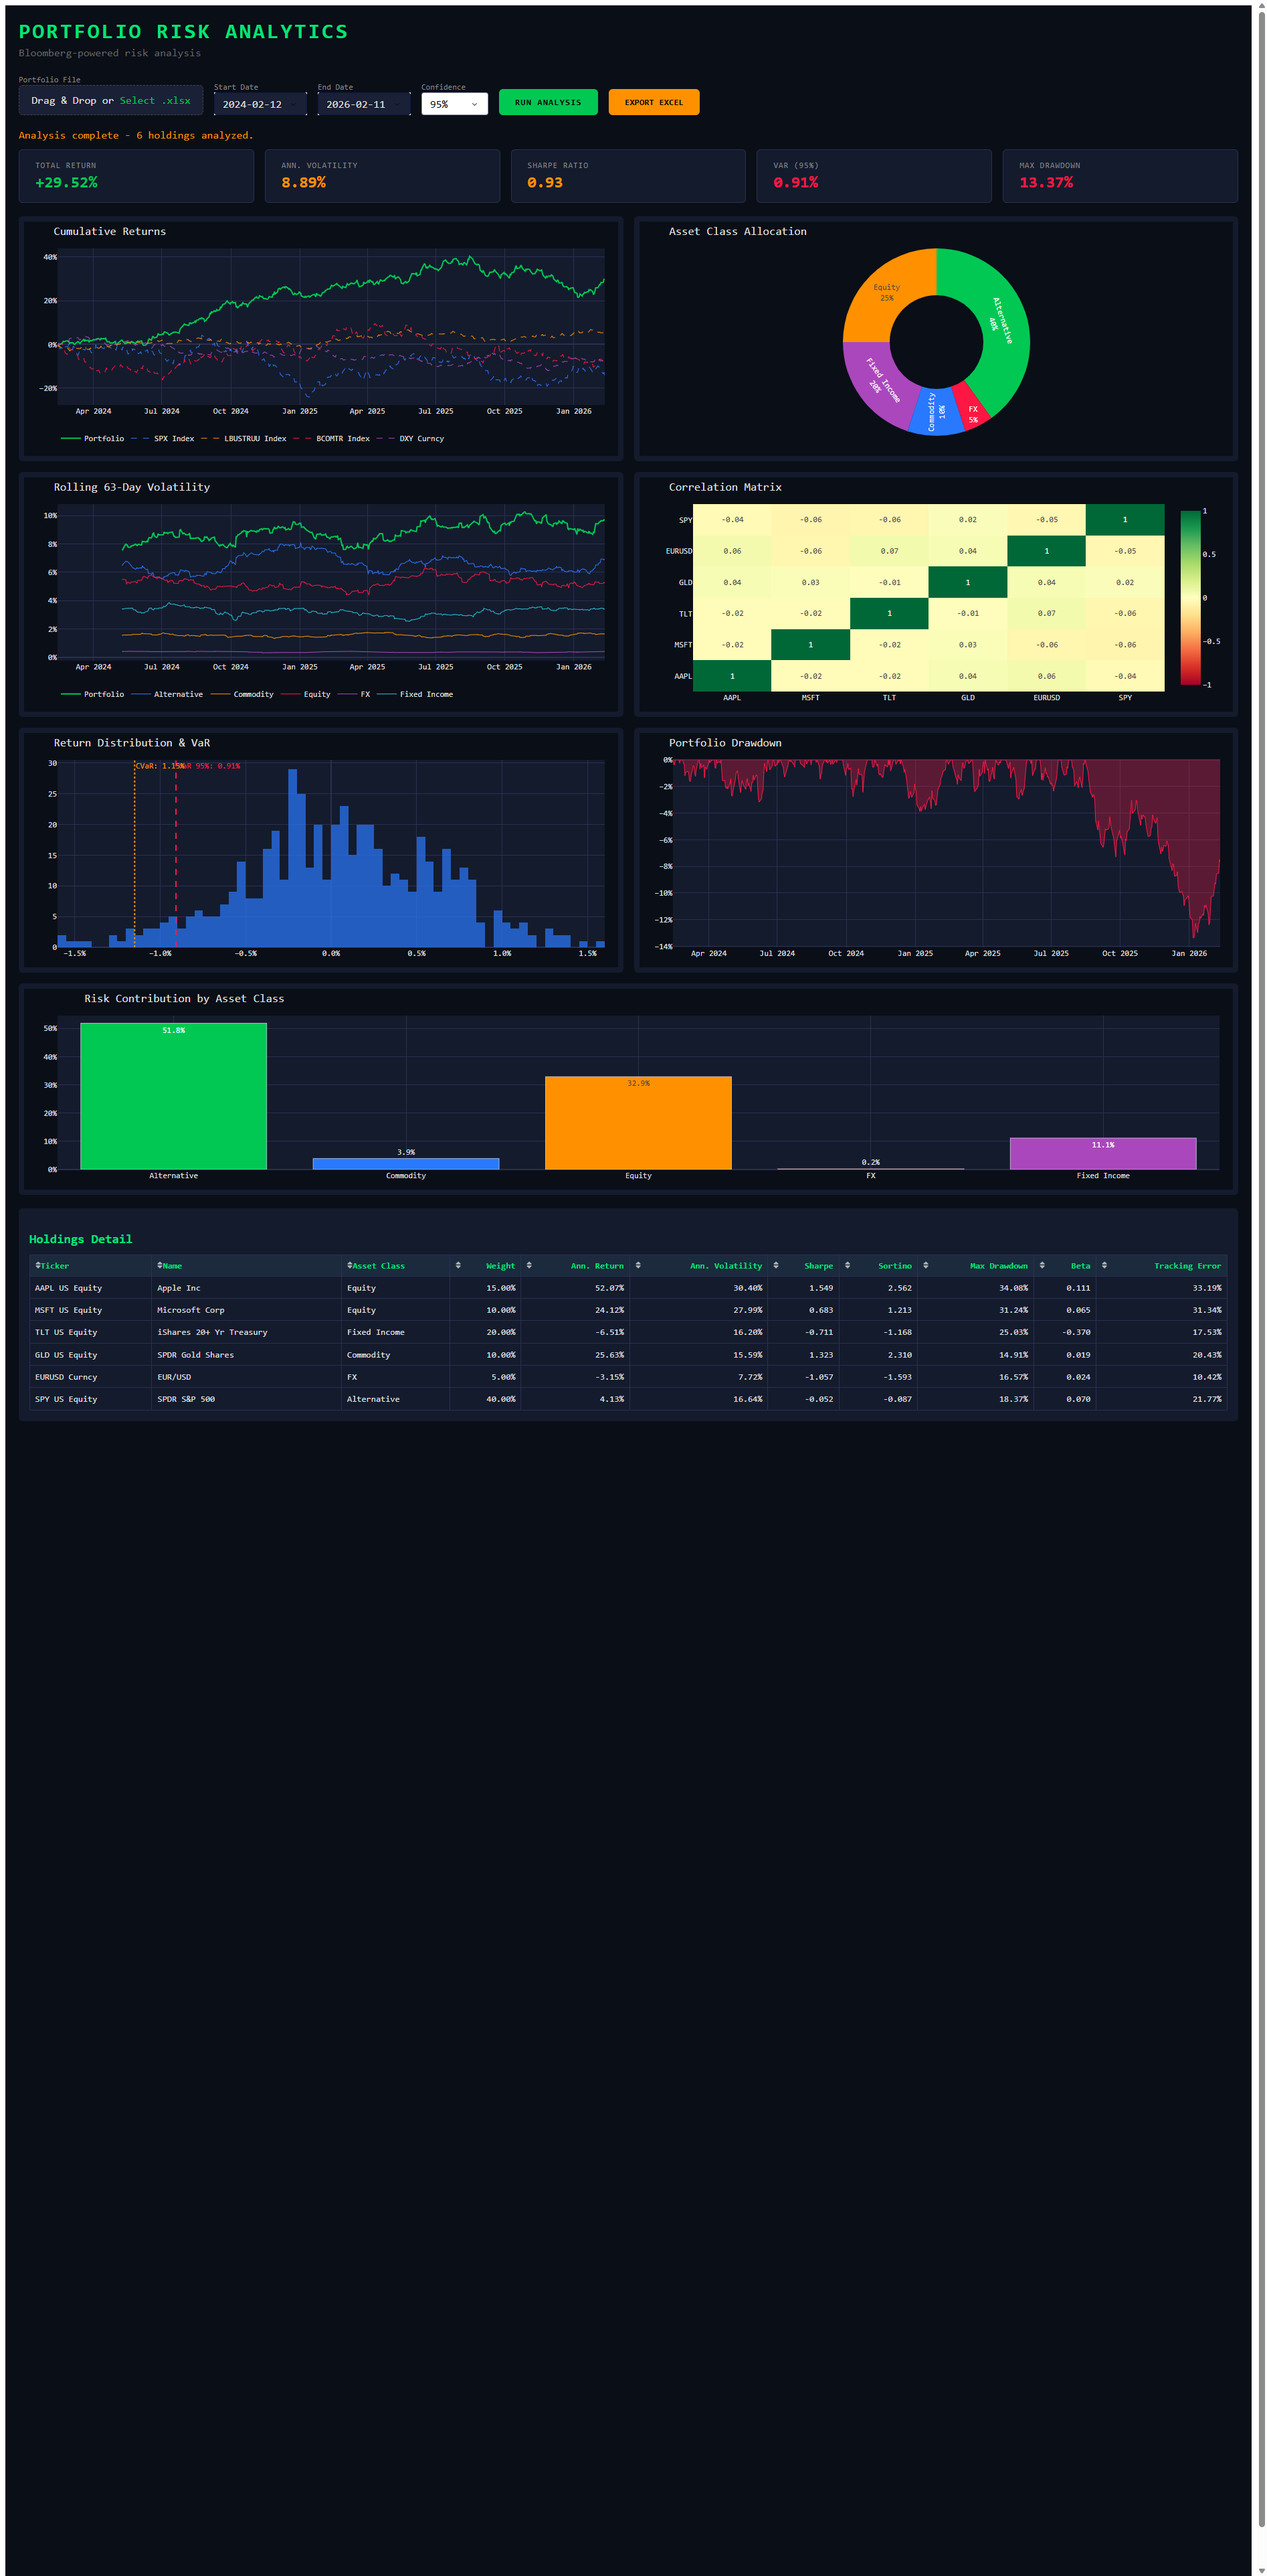
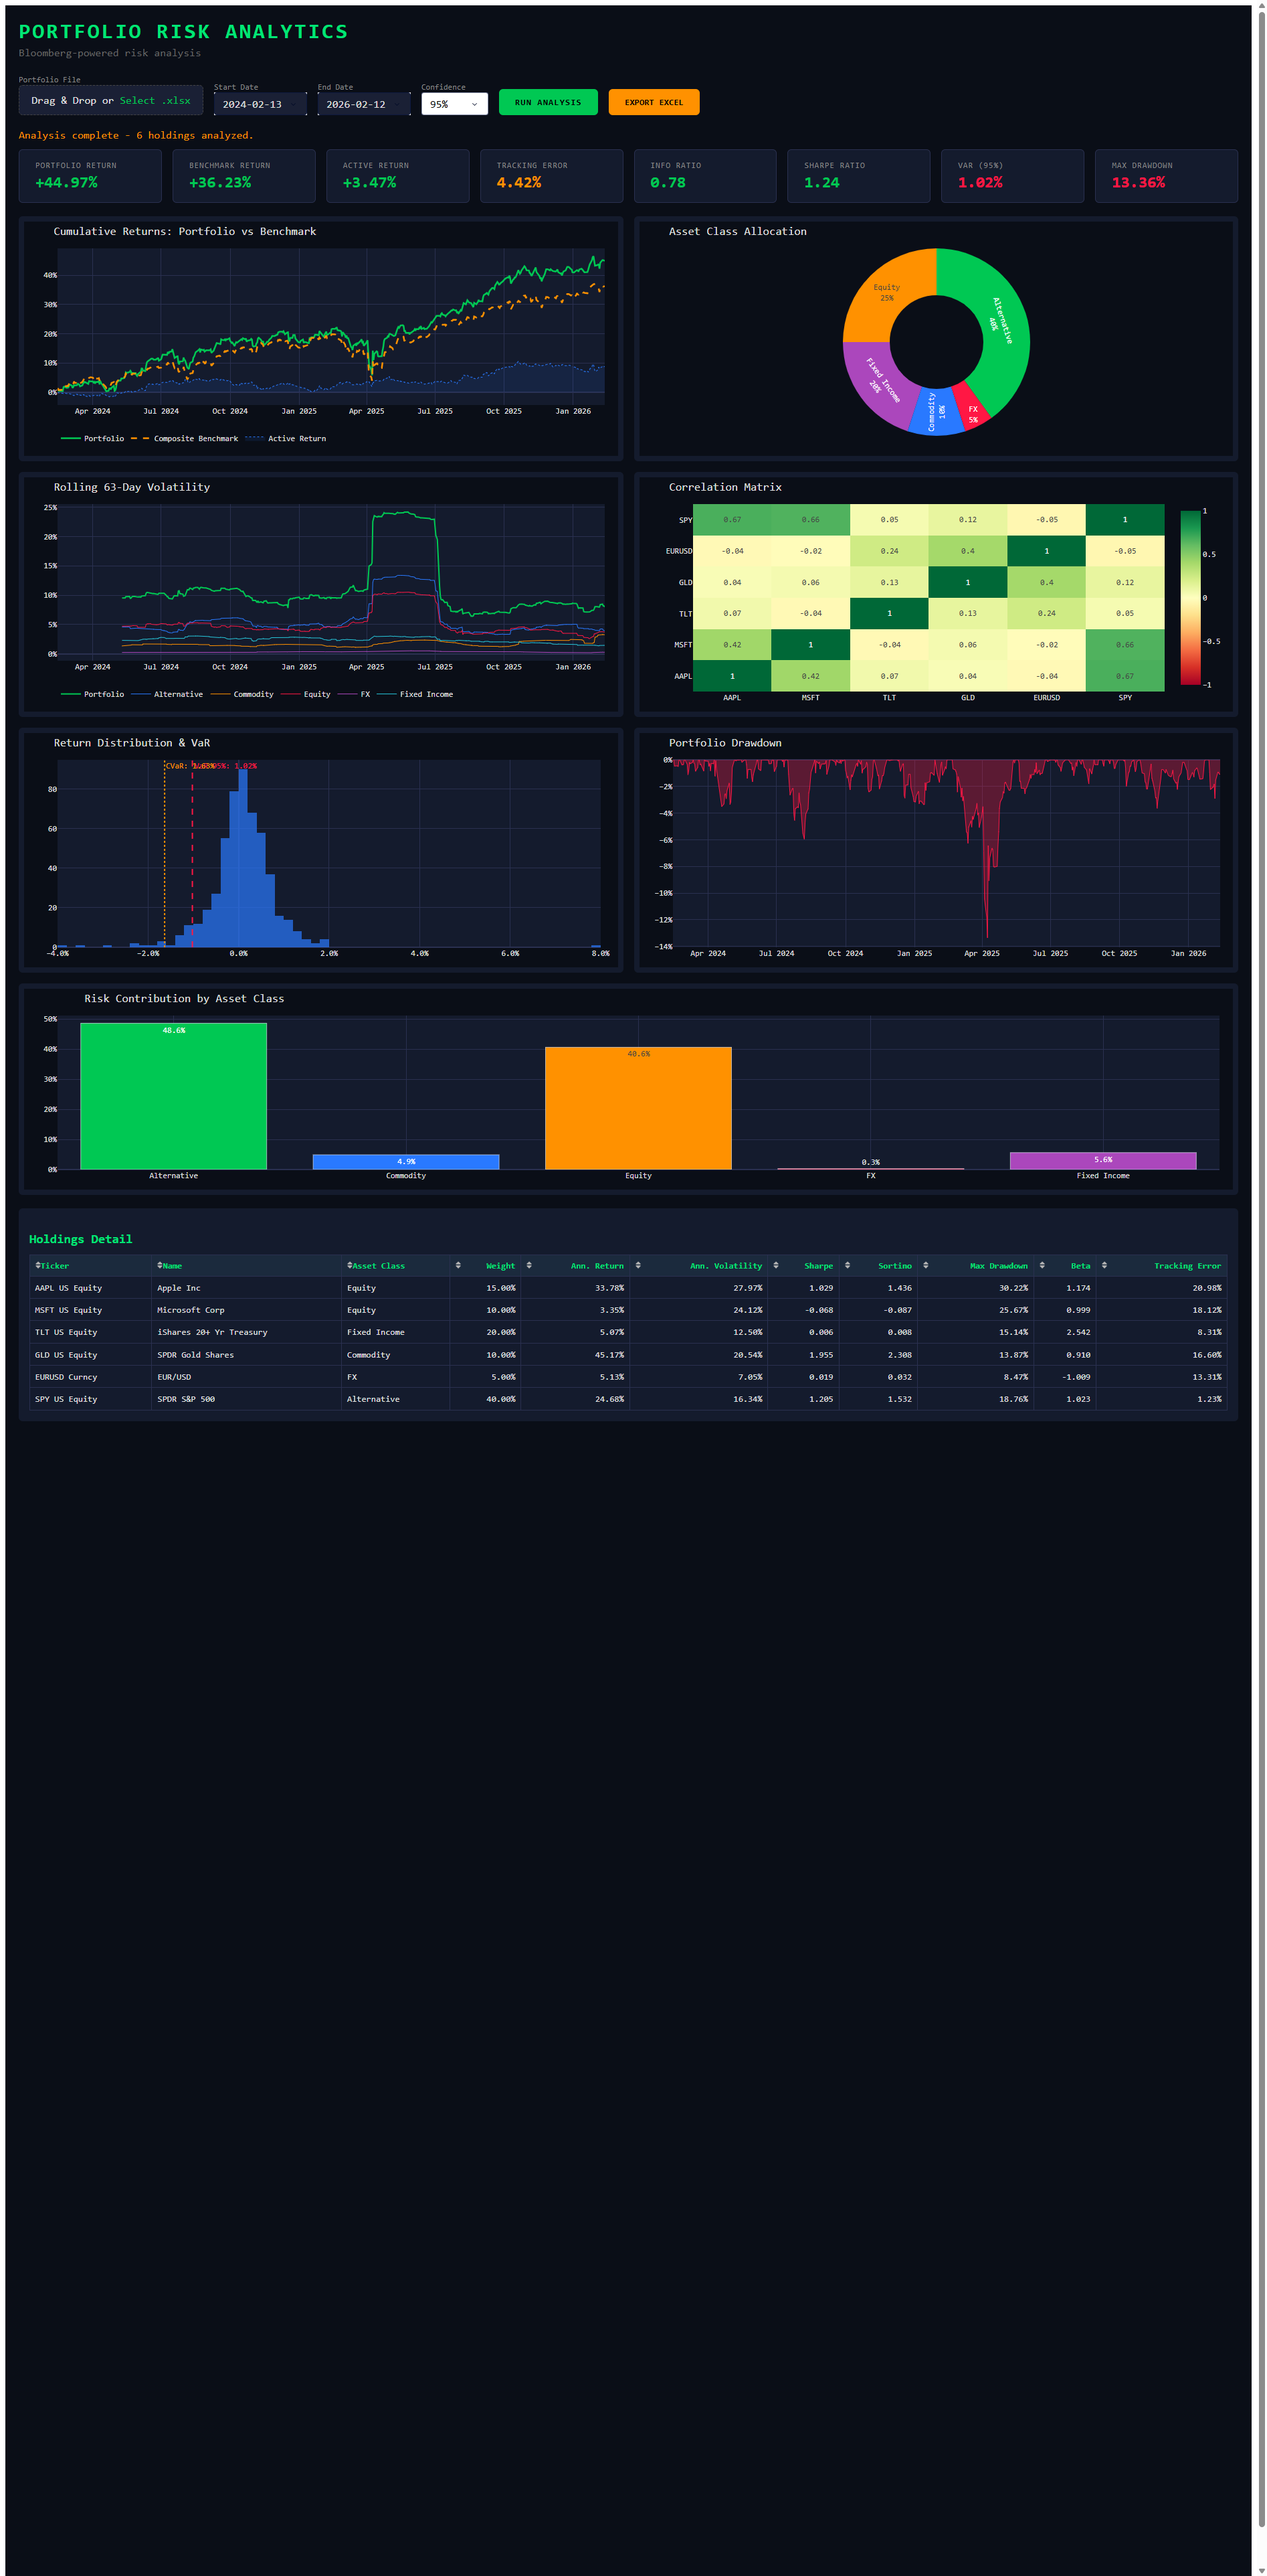
Add relative risk metrics: benchmark return, tracking error, information ratio
- Add composite_benchmark_returns() and information_ratio() to risk engine
- Dashboard KPI cards now show portfolio vs benchmark return, active return,
  tracking error, and information ratio
- Cumulative returns chart plots portfolio vs composite benchmark with
  active return spread
- CLI summary and Excel report include all relative risk metrics

diff --git a/output/dashboard.py b/output/dashboard.py
@@ -19,7 +19,8 @@ from risk.cvar import conditional_var, compute_all_cvar
 from risk.metrics import (
     annualized_return, annualized_volatility, sharpe_ratio, sortino_ratio,
     max_drawdown, drawdown_series, risk_contribution, compute_asset_class_metrics,
-    compute_asset_metrics,
+    compute_asset_metrics, composite_benchmark_returns, tracking_error,
+    information_ratio,
 )
 from risk.correlation import correlation_matrix, asset_class_correlation
 from output.excel_report import generate_report
@@ -301,20 +302,33 @@ def _register_callbacks(app: dash.Dash):
             )
             port_ret = portfolio_returns(asset_ret, weights)
 
+            # ── Composite benchmark ──
+            comp_bench = composite_benchmark_returns(bench_ret, portfolio)
+
             # ── KPI Cards ──
             total_ret = cumulative_returns(port_ret).iloc[-1]
+            bench_total_ret = cumulative_returns(comp_bench).iloc[-1]
             ann_vol = annualized_volatility(port_ret)
             sharpe_val = sharpe_ratio(port_ret)
             var_95 = historical_var(port_ret, confidence)
             mdd = max_drawdown(port_ret)
+            te = tracking_error(port_ret, comp_bench)
+            ir = information_ratio(port_ret, comp_bench)
+            active_ret = annualized_return(port_ret) - annualized_return(comp_bench)
 
             def _fmt_pct(v):
                 return f"{v:+.2%}" if v != 0 else "0.00%"
 
             kpi_cards = [
-                _kpi_card("Total Return", _fmt_pct(total_ret),
+                _kpi_card("Portfolio Return", _fmt_pct(total_ret),
                           GREEN if total_ret >= 0 else RED),
-                _kpi_card("Ann. Volatility", f"{ann_vol:.2%}", ORANGE),
+                _kpi_card("Benchmark Return", _fmt_pct(bench_total_ret),
+                          GREEN if bench_total_ret >= 0 else RED),
+                _kpi_card("Active Return", _fmt_pct(active_ret),
+                          GREEN if active_ret >= 0 else RED),
+                _kpi_card("Tracking Error", f"{te:.2%}", ORANGE),
+                _kpi_card("Info Ratio", f"{ir:.2f}",
+                          GREEN if ir > 0.5 else ORANGE if ir > 0 else RED),
                 _kpi_card("Sharpe Ratio", f"{sharpe_val:.2f}",
                           GREEN if sharpe_val > 1 else ORANGE if sharpe_val > 0 else RED),
                 _kpi_card(f"VaR ({confidence:.0%})", f"{var_95:.2%}", RED),
@@ -322,24 +336,29 @@ def _register_callbacks(app: dash.Dash):
             ]
 
             # ── Charts ──
-            # 1. Cumulative returns
+            # 1. Cumulative returns (portfolio vs composite benchmark)
             cum_port = cumulative_returns(port_ret)
+            cum_comp_bench = cumulative_returns(comp_bench)
             fig_cumret = _make_fig(
-                title="Cumulative Returns", height=350,
+                title="Cumulative Returns: Portfolio vs Benchmark", height=350,
                 yaxis_tickformat=".0%", margin=dict(t=40, b=30, l=50, r=20),
                 legend=dict(orientation="h", y=-0.15),
             )
             fig_cumret.add_trace(go.Scatter(
                 x=cum_port.index, y=cum_port.values,
-                name="Portfolio", line=dict(color=GREEN, width=2),
+                name="Portfolio", line=dict(color=GREEN, width=2.5),
             ))
-            for bench_ticker in portfolio["Benchmark"].unique():
-                if bench_ticker in bench_ret.columns:
-                    cum_bench = cumulative_returns(bench_ret[bench_ticker])
-                    fig_cumret.add_trace(go.Scatter(
-                        x=cum_bench.index, y=cum_bench.values,
-                        name=bench_ticker, line=dict(width=1, dash="dash"),
-                    ))
+            fig_cumret.add_trace(go.Scatter(
+                x=cum_comp_bench.index, y=cum_comp_bench.values,
+                name="Composite Benchmark", line=dict(color=ORANGE, width=2.5, dash="dash"),
+            ))
+            # Active return (spread)
+            active_cum = cum_port - cum_comp_bench
+            fig_cumret.add_trace(go.Scatter(
+                x=active_cum.index, y=active_cum.values,
+                name="Active Return", line=dict(color=BLUE, width=1, dash="dot"),
+                fill="tozeroy", fillcolor="rgba(41,121,255,0.1)",
+            ))
 
             # 2. Allocation donut
             ac_weights = portfolio.groupby("Asset Class")["Weight"].sum()

diff --git a/output/excel_report.py b/output/excel_report.py
@@ -13,7 +13,8 @@ from risk.cvar import compute_all_cvar, per_asset_cvar
 from risk.metrics import (
     annualized_return, annualized_volatility, sharpe_ratio, sortino_ratio,
     max_drawdown, compute_asset_metrics, compute_asset_class_metrics,
-    risk_contribution,
+    risk_contribution, composite_benchmark_returns, tracking_error,
+    information_ratio,
 )
 from risk.correlation import correlation_matrix
 
@@ -152,11 +153,20 @@ def generate_report(
     ws_summary.cell(row=2, column=1, value=f"Period: {asset_returns.index.min().date()} to {asset_returns.index.max().date()}")
     ws_summary.cell(row=3, column=1, value=f"Holdings: {len(portfolio)}")
 
+    # Composite benchmark
+    comp_bench = composite_benchmark_returns(benchmark_returns, portfolio)
+    te = tracking_error(port_ret, comp_bench)
+    ir = information_ratio(port_ret, comp_bench)
+
     # Aggregate metrics
     metrics = {
-        "Total Return": cumulative_returns(port_ret).iloc[-1] if len(port_ret) > 0 else 0,
+        "Portfolio Return": cumulative_returns(port_ret).iloc[-1] if len(port_ret) > 0 else 0,
+        "Benchmark Return": cumulative_returns(comp_bench).iloc[-1] if len(comp_bench) > 0 else 0,
+        "Active Return": annualized_return(port_ret) - annualized_return(comp_bench),
         "Annualized Return": annualized_return(port_ret),
         "Annualized Volatility": annualized_volatility(port_ret),
+        "Tracking Error": te,
+        "Information Ratio": ir,
         "Sharpe Ratio": sharpe_ratio(port_ret),
         "Sortino Ratio": sortino_ratio(port_ret),
         "Max Drawdown": max_drawdown(port_ret),

diff --git a/main.py b/main.py
@@ -97,15 +97,24 @@ Examples:
     weights = pd.Series(portfolio["Weight"].values, index=portfolio["Ticker"].values)
     port_ret = portfolio_returns(asset_ret, weights)
 
-    # Print summary
-    from risk.metrics import annualized_return, annualized_volatility, sharpe_ratio, max_drawdown
+    # Composite benchmark
+    from risk.metrics import (
+        annualized_return, annualized_volatility, sharpe_ratio, max_drawdown,
+        composite_benchmark_returns, tracking_error, information_ratio,
+    )
     from risk.var import historical_var
     from risk.returns import cumulative_returns
+
+    comp_bench = composite_benchmark_returns(bench_ret, portfolio)
 
     print("\n-- Portfolio Summary --")
     print(f"  Total Return:      {cumulative_returns(port_ret).iloc[-1]:+.2%}")
     print(f"  Ann. Return:       {annualized_return(port_ret):+.2%}")
+    print(f"  Benchmark Return:  {annualized_return(comp_bench):+.2%}")
+    print(f"  Active Return:     {annualized_return(port_ret) - annualized_return(comp_bench):+.2%}")
     print(f"  Ann. Volatility:   {annualized_volatility(port_ret):.2%}")
+    print(f"  Tracking Error:    {tracking_error(port_ret, comp_bench):.2%}")
+    print(f"  Information Ratio: {information_ratio(port_ret, comp_bench):.2f}")
     print(f"  Sharpe Ratio:      {sharpe_ratio(port_ret):.2f}")
     print(f"  Max Drawdown:      {max_drawdown(port_ret):.2%}")
     print(f"  VaR (95%):         {historical_var(port_ret, 0.95):.2%}")

diff --git a/risk/metrics.py b/risk/metrics.py
@@ -84,6 +84,36 @@ def tracking_error(
     return excess.std() * np.sqrt(TRADING_DAYS_PER_YEAR)
 
 
+def composite_benchmark_returns(
+    benchmark_returns: pd.DataFrame,
+    portfolio: pd.DataFrame,
+) -> pd.Series:
+    """Compute weighted composite benchmark returns at portfolio level.
+
+    Each holding's benchmark is weighted by the holding's portfolio weight,
+    producing a single blended benchmark return series.
+    """
+    bench_ret = pd.Series(0.0, index=benchmark_returns.index)
+    for _, row in portfolio.iterrows():
+        bench_ticker = row["Benchmark"]
+        weight = row["Weight"]
+        if bench_ticker in benchmark_returns.columns:
+            bench_ret = bench_ret + weight * benchmark_returns[bench_ticker].fillna(0)
+    return bench_ret
+
+
+def information_ratio(
+    portfolio_returns: pd.Series,
+    benchmark_returns: pd.Series,
+) -> float:
+    """Annualized information ratio (active return / tracking error)."""
+    active_ret = annualized_return(portfolio_returns) - annualized_return(benchmark_returns)
+    te = tracking_error(portfolio_returns, benchmark_returns)
+    if te == 0:
+        return 0.0
+    return active_ret / te
+
+
 def risk_contribution(
     asset_returns: pd.DataFrame,
     weights: pd.Series,
